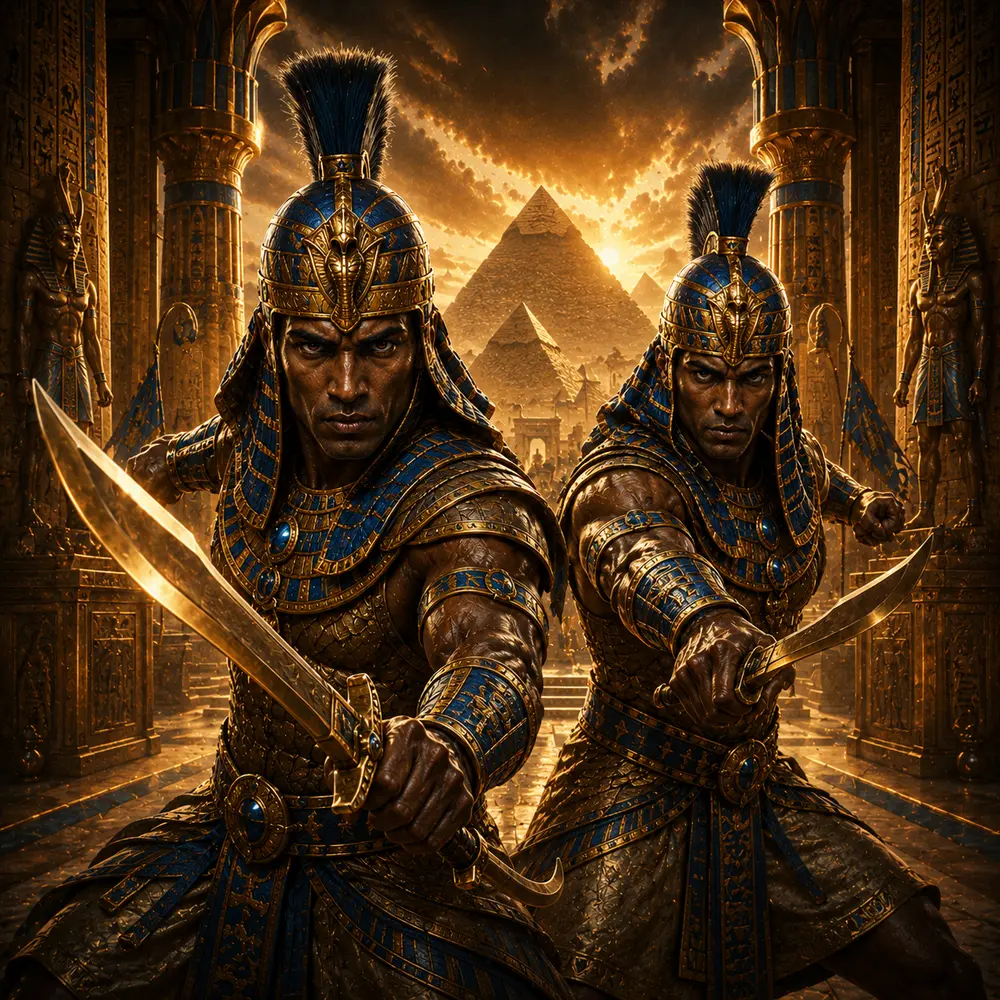
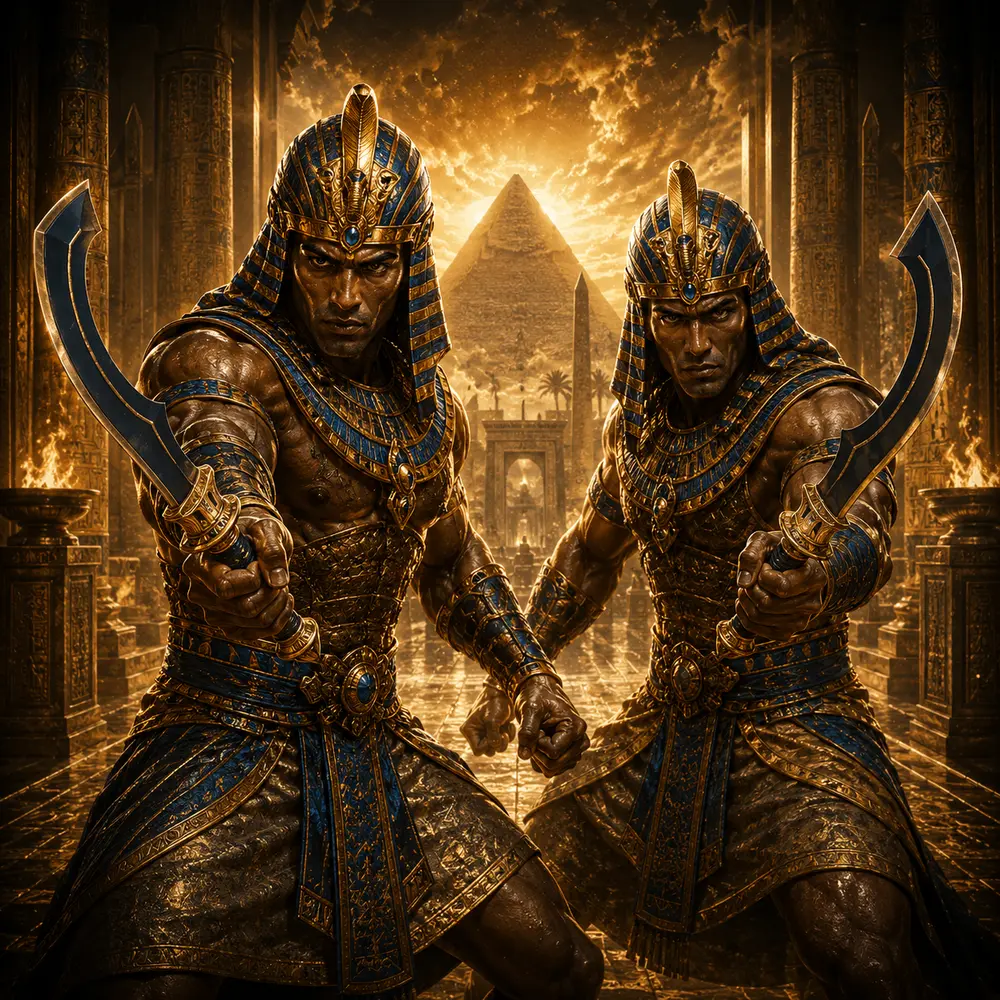
Lores historicas dos 7 Guerreiros base + nova arte do Guarda Real
Nova arte com os guardas empunhando khopesh, coerente com a lore.
Cada lore carrega um fato verificavel: Ta-Seti, os nomos, a origem hicsa
do carro de guerra, o titulo imi-ra mesha e o colosso de Menfis.

diff --git a/src/engine.js b/src/engine.js
@@ -16,13 +16,20 @@ export const ARCH_COLOR = {
 
 export const CARDS = [
   // Base
-  { key: "servo",     nome: "Servo do Templo",       tipo: "Guerreiro", custo: 0, poder: 1,  arch: "base", arte: "servo", arteFoco: "center 25%" },
-  { key: "arqueiro",  nome: "Arqueiro Núbio",        tipo: "Guerreiro", custo: 1, poder: 3,  arch: "base", arte: "arqueiro" },
-  { key: "lanceiro",  nome: "Lanceiro do Nilo",      tipo: "Guerreiro", custo: 2, poder: 4,  arch: "base", arte: "lanceiro", arteFoco: "center 0%" },
-  { key: "carruagem", nome: "Carruagem de Guerra",   tipo: "Guerreiro", custo: 3, poder: 6,  arch: "base", arte: "carruagem" },
-  { key: "guardareal",nome: "Guarda Real",           tipo: "Guerreiro", custo: 4, poder: 8,  arch: "base", arte: "guardareal", arteFoco: "center 0%" },
-  { key: "general",   nome: "General dos Exércitos", tipo: "Guerreiro", custo: 5, poder: 10, arch: "base", arte: "general" },
-  { key: "colosso",   nome: "Colosso de Mênfis",     tipo: "Guerreiro", custo: 6, poder: 14, arch: "base", arte: "colosso", arteFoco: "center 0%" },
+  { key: "servo",     nome: "Servo do Templo",       tipo: "Guerreiro", custo: 0, poder: 1,  arch: "base", arte: "servo", arteFoco: "center 25%",
+    lore: "Os templos eram os maiores empregadores do Egito e pagavam em pão e cerveja — moeda cunhada só chegaria ao Nilo mais de mil anos depois." },
+  { key: "arqueiro",  nome: "Arqueiro Núbio",        tipo: "Guerreiro", custo: 1, poder: 3,  arch: "base", arte: "arqueiro",
+    lore: "O Egito chamava a Núbia de Ta-Seti, \"a Terra do Arco\". Seus arqueiros eram tão temidos que o faraó preferiu alistá-los a enfrentá-los." },
+  { key: "lanceiro",  nome: "Lanceiro do Nilo",      tipo: "Guerreiro", custo: 2, poder: 4,  arch: "base", arte: "lanceiro", arteFoco: "center 0%",
+    lore: "A infantaria saía dos nomos, recrutada entre camponeses na entressafra. Lança de bronze e escudo de couro de boi: a espinha do exército por dois milênios." },
+  { key: "carruagem", nome: "Carruagem de Guerra",   tipo: "Guerreiro", custo: 3, poder: 6,  arch: "base", arte: "carruagem",
+    lore: "Os hicsos trouxeram o carro de guerra; o Egito o refez mais leve, com rodas de raios e o eixo recuado. Dois homens: um guia os cavalos, o outro atira." },
+  { key: "guardareal",nome: "Guarda Real",           tipo: "Guerreiro", custo: 4, poder: 8,  arch: "base", arte: "guardareal", arteFoco: "center 0%",
+    lore: "A khopesh, espada em foice, era arma e condecoração: o faraó a entregava em mãos aos que juravam guardar-lhe o corpo." },
+  { key: "general",   nome: "General dos Exércitos", tipo: "Guerreiro", custo: 5, poder: 10, arch: "base", arte: "general",
+    lore: "O título era imi-ra mesha, \"superintendente do exército\". Horemheb o portou antes de cingir a coroa: comandar tropas era caminho para o trono." },
+  { key: "colosso",   nome: "Colosso de Mênfis",     tipo: "Guerreiro", custo: 6, poder: 14, arch: "base", arte: "colosso", arteFoco: "center 0%",
+    lore: "O colosso de Ramsés ainda jaz em Mênfis, dez metros de calcário. Estátuas assim tinham culto próprio — o povo lhes rezava como intermediárias do rei." },
   // Efeito
   { key: "hathor", nome: "Hathor", tipo: "Divindade", custo: 2, poder: 2, arch: "buff",
     trigger: "entrar", needs: "ally", texto: "Ao Entrar: +2 de Poder a um aliado nesta via." },